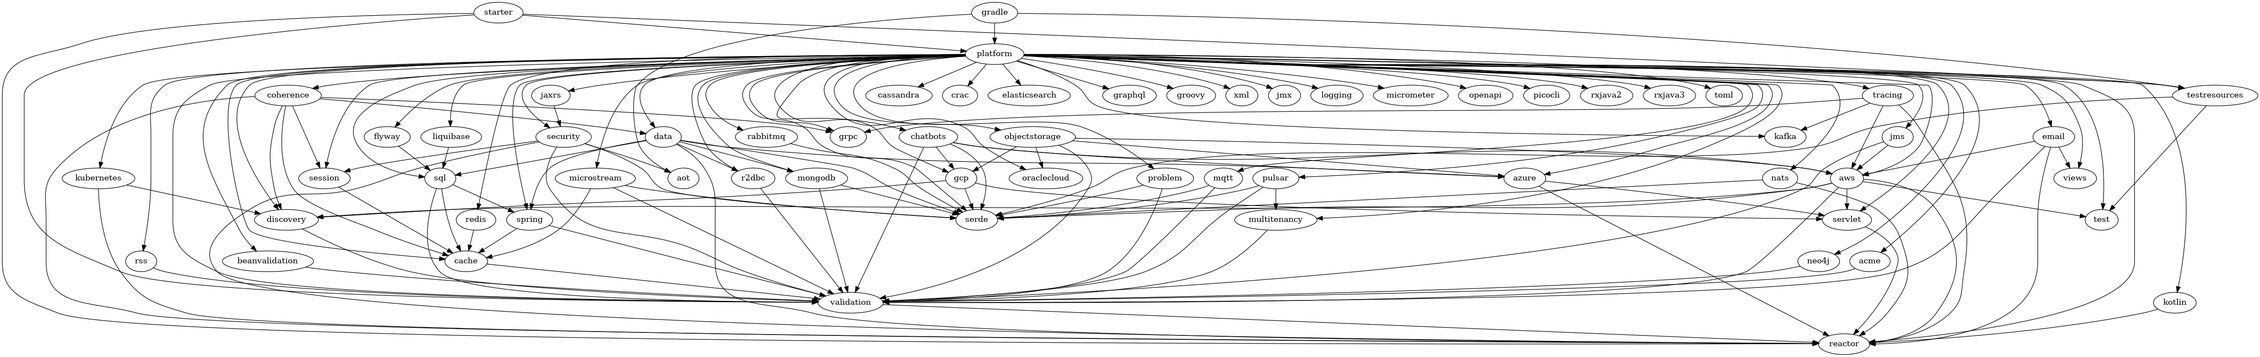
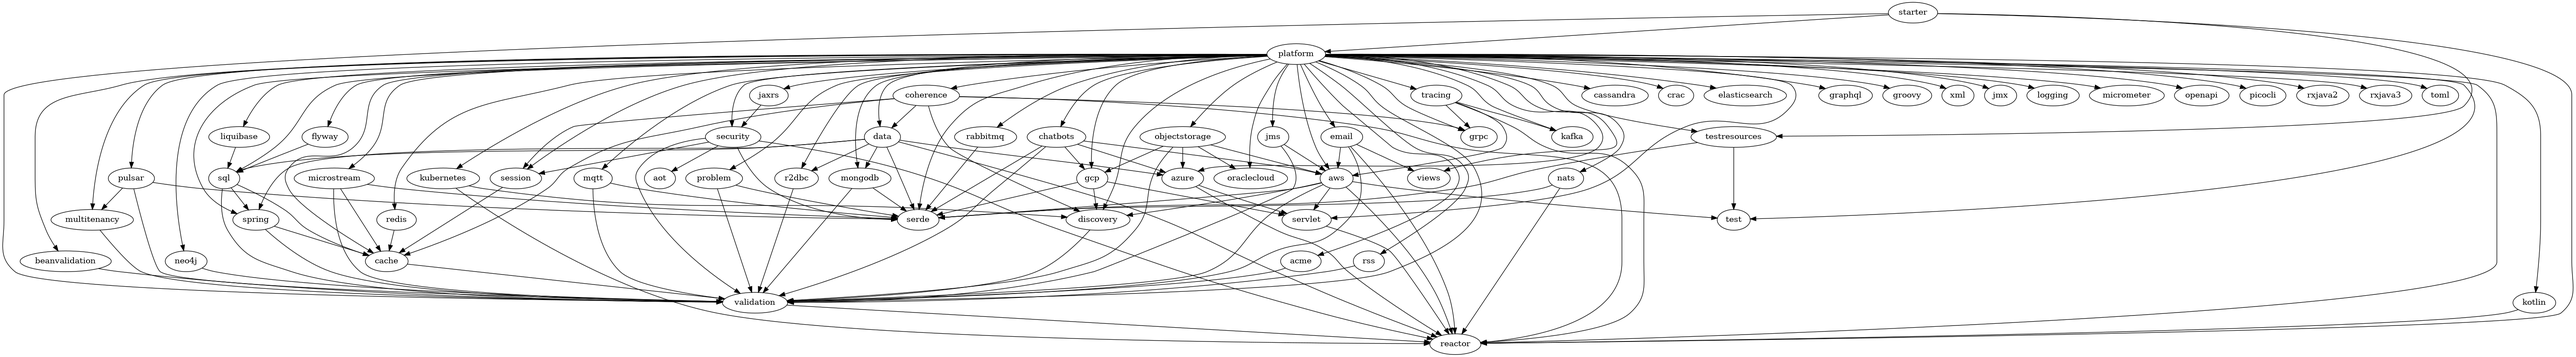
deploy: 3b2f357ef7a3afdb4ed65c1ba22d3688d425cdcc

diff --git a/index.html b/index.html
@@ -80,7 +80,7 @@
 <body>
 <div class="header">
     <img src="https://micronaut.io/wp-content/uploads/2020/11/MIcronautLogo_Horizontal.svg">
-    <div class="right">Generated at Jun 3, 2023, 12:48:32 PM</div>
+    <div class="right">Generated at Jun 3, 2023, 6:19:11 PM</div>
 </div>
 <div class="row">
     <nav>
@@ -222,13 +222,13 @@
 <TR><TD>&#128154; Settings 6.5.0</TD></TR>
 <TR><TD>&#128154; <B>Build: <FONT COLOR="darkgreen">PASSING</FONT></B></TD></TR>
 </TABLE></li>
-        <li class="item" onclick="showImage(this, 'project-graph-gradle.png')"><TABLE BORDER="0" CELLSPACING="1" CELLPADDING="1" STYLE="rounded">
-<TR><TD><B>gradle 4.0.0-SNAPSHOT</B></TD></TR>
-<TR><TD>&#10060; Status SNAPSHOT</TD></TR>
-<TR><TD>&#10060; Micronaut unknown</TD></TR>
-<TR><TD>&#128155; Gradle 8.1.1</TD></TR>
-<TR><TD>&#128154; Settings 6.5.0</TD></TR>
-<TR><TD>&#128154; <B>Build: <FONT COLOR="darkgreen">PASSING</FONT></B></TD></TR>
+        <li class="item" onclick="showImage(this, 'project-graph-gradleplugin.png')"><TABLE BORDER="0" CELLSPACING="1" CELLPADDING="1" STYLE="rounded">
+<TR><TD><B>gradleplugin ERROR</B></TD></TR>
+<TR><TD>&#128155; Status ERROR</TD></TR>
+<TR><TD>&#10060; Micronaut ERROR</TD></TR>
+<TR><TD>&#128155; Gradle ERROR</TD></TR>
+<TR><TD>&#128155; Settings ERROR</TD></TR>
+<TR><TD>&#128155; <B>Build: <FONT COLOR="yellow">ERROR</FONT></B></TD></TR>
 </TABLE></li>
         <li class="item" onclick="showImage(this, 'project-graph-graphql.png')"><TABLE BORDER="0" CELLSPACING="1" CELLPADDING="1" STYLE="rounded">
 <TR><TD><B>graphql 4.0.0-SNAPSHOT</B></TD></TR>
@@ -666,7 +666,7 @@
                        <img id="project-graph-gcp.png" src="project-graph-gcp.png">
                    </div>
 <div class="graph">       
-                       <img id="project-graph-gradle.png" src="project-graph-gradle.png">
+                       <img id="project-graph-gradleplugin.png" src="project-graph-gradleplugin.png">
                    </div>
 <div class="graph">       
                        <img id="project-graph-graphql.png" src="project-graph-graphql.png">
